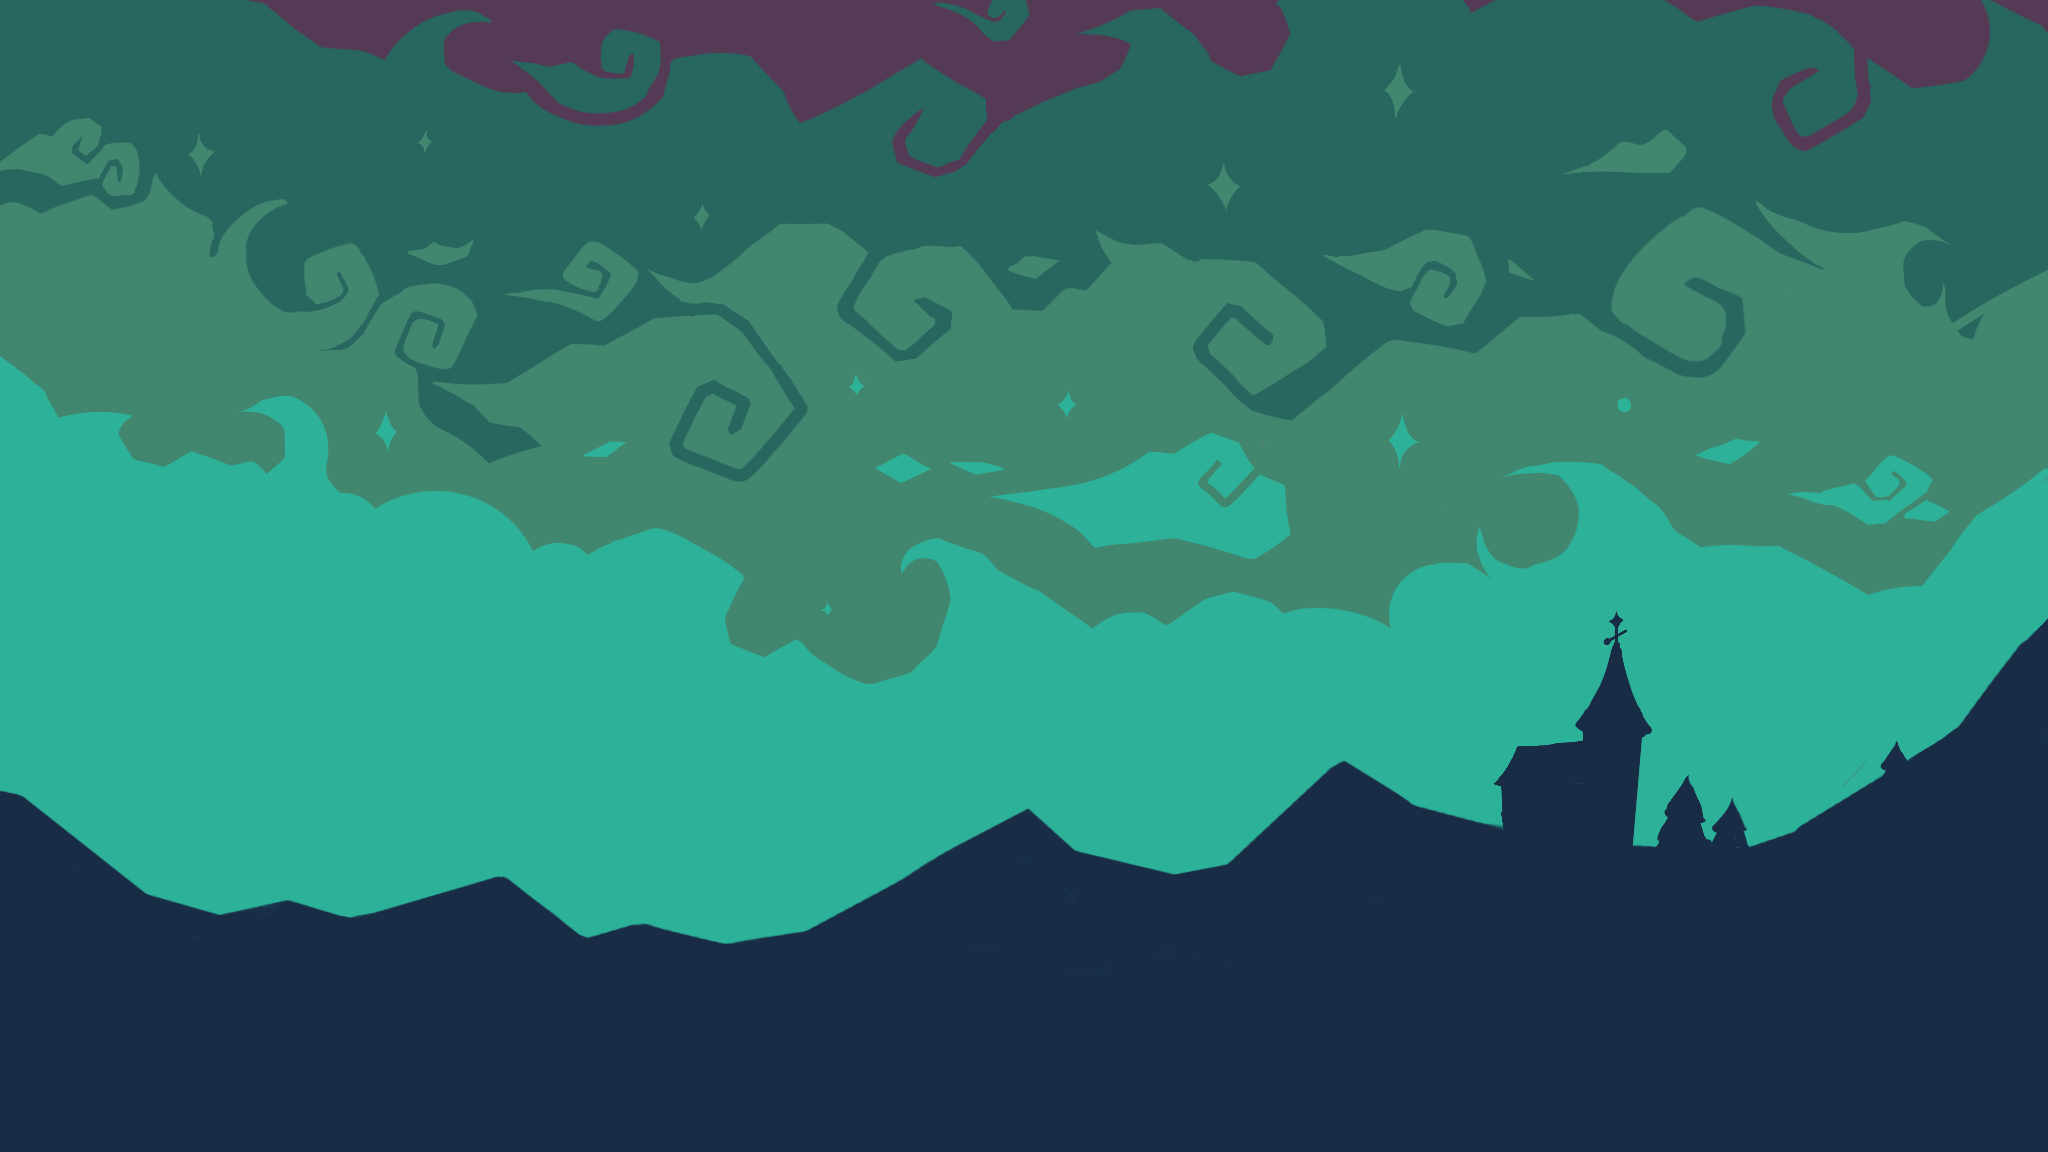
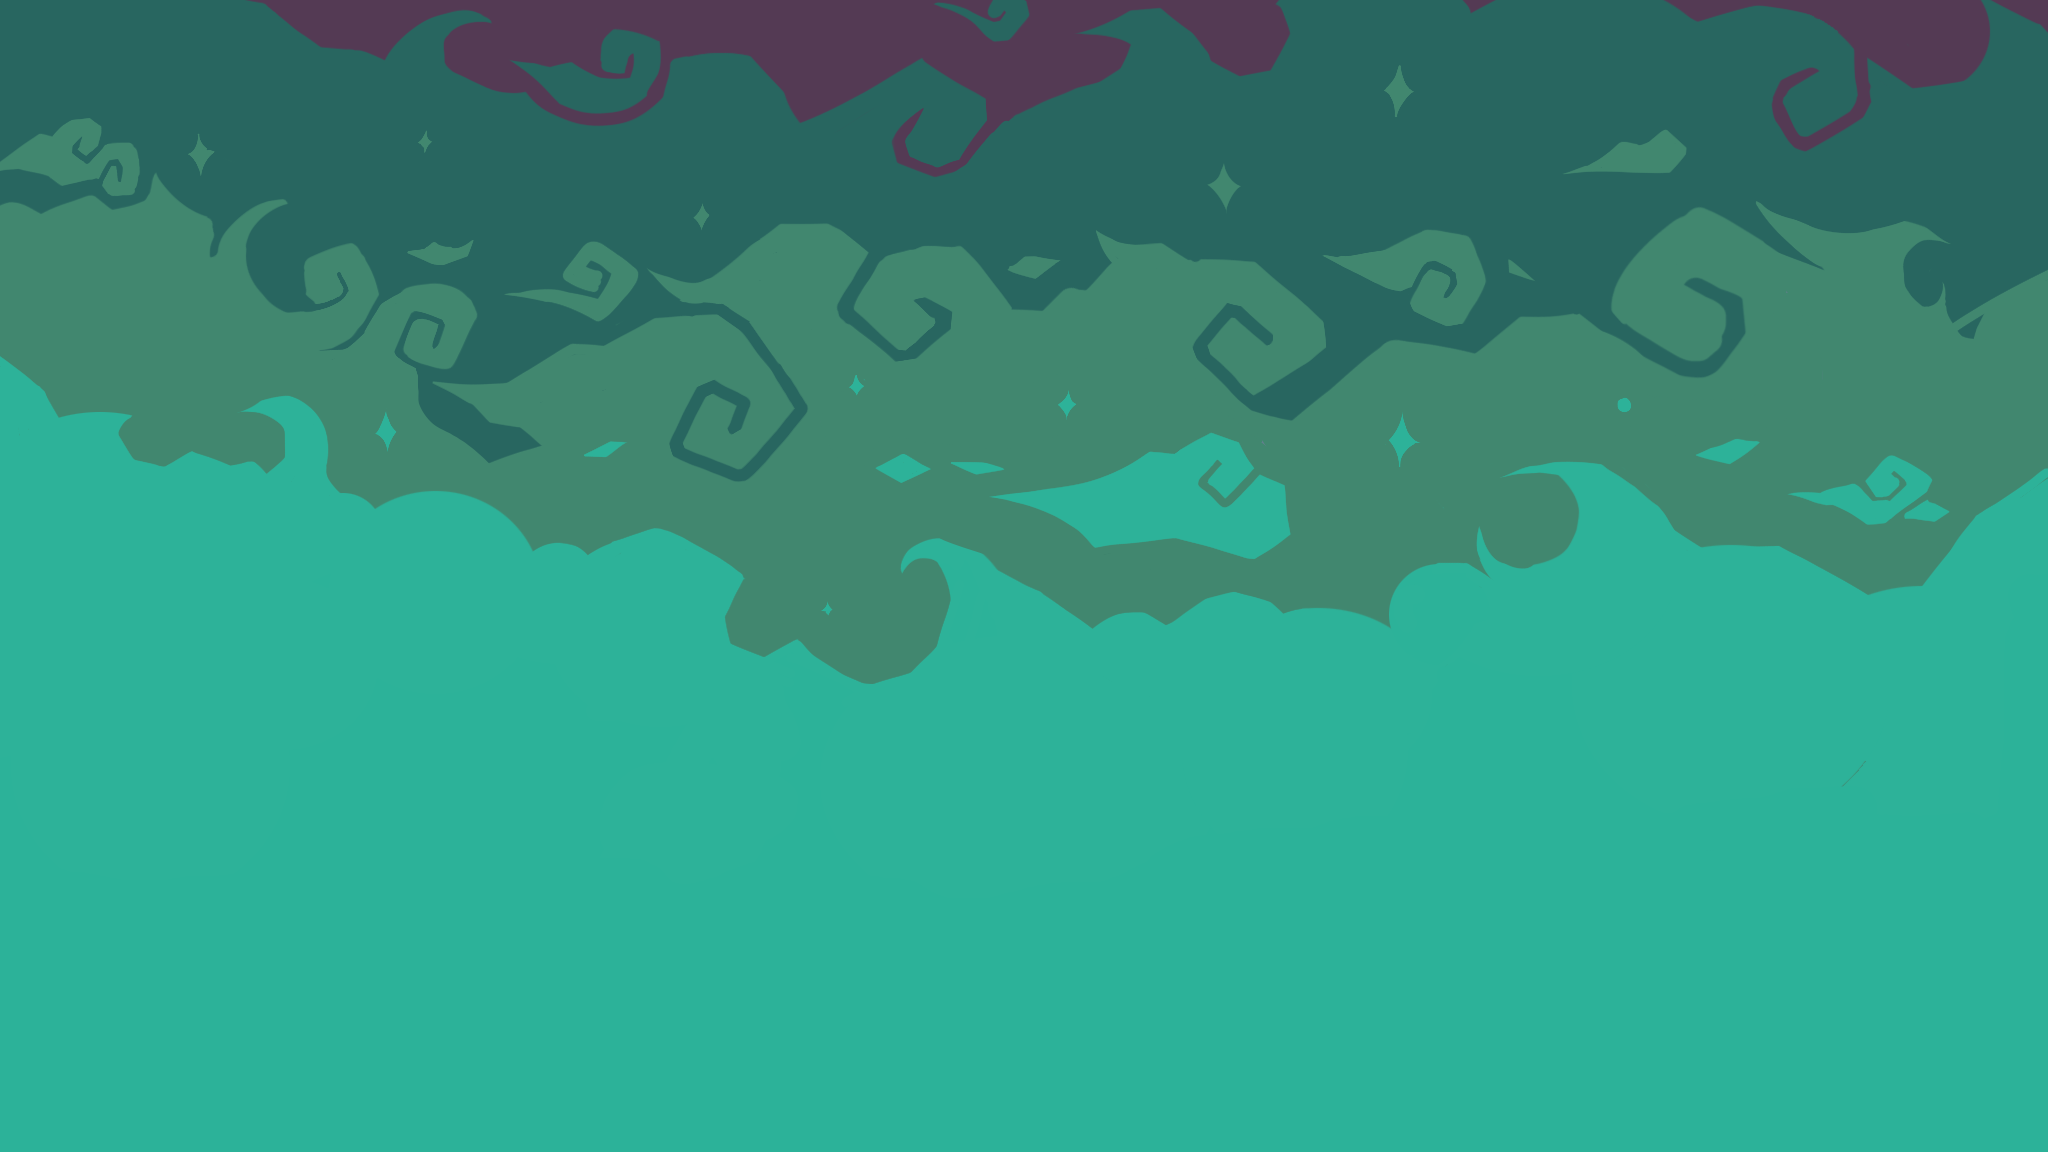
Added a super cool paralax effect

Changed region(s): [[0.0, 0.5312, 1.0, 1.0]]

diff --git a/index.css b/index.css
@@ -17,15 +17,6 @@
 */
 @import url('https://fonts.googleapis.com/css?family=Lato');
 /*General Styling*/
-* {
-  /*
-     I removed the resetting of margin and padding
-     Turns out that the weird white space was the 8px
-     margin of the body
-  */
-  /* This is still very useful */
-  box-sizing: border-box;
-}
 
 body {
   /* Fixing the weird white space */
@@ -60,7 +51,7 @@ ol, ul {
 }
 
 section, header, footer {
-  background-color: #182c46;
+  background-color: #00152d;
   color: #e5f5f6;
   font-family:  'Lato', Helvetica, sans-serif;
   height: 100vh;
@@ -74,7 +65,35 @@ header {
   background-image: url("images/background.png");
   background-repeat: repeat-x;
   background-size: cover;
-  padding: 10% 5%;
+
+  height: 1100px;
+  overflow: hidden;
+  position: relative;
+  z-index: -4;
+}
+
+.layer {
+  background-position: bottom center;
+  background-size: auto;
+  background-repeat: no-repeat;
+  width: 100%;
+  height: 1100px;
+  position: fixed;
+}
+
+#layer-foreground {
+  background-image: url("images/Foreground.png");
+  z-index: -1;
+}
+
+#layer-harper {
+  background-image: url("images/Harper.png");
+  z-index: -2;
+}
+
+#layer-mountain {
+  background-image: url("images/Mountain.png");
+  z-index: -3;
 }
 
 header p {

diff --git a/index.html b/index.html
@@ -16,7 +16,8 @@
 
 <head>
   <meta charset="utf-8">
-  <title>About Chao</title>
+  <title>Lunaria</title>
+  <script src="index.js"></script>
   <link href="index.css" rel="stylesheet">
 </head>
 
@@ -24,16 +25,12 @@
 
   <!--Header-->
   <header>
-    <h1>Hi! I'm Chao!</h1>
-    <p>
-      ...and this is my personal page!
-    </p>
-    <p>
-      I'm a sophomore at University of Washington. I love programming,
-      drawing, and eating great food! I'm looking forward to making beautiful
-      websites in CSE 154.
-    </p>
-    <a href="https://youtu.be/CpelFcu602A" id="moon" target="_blank"><img src="images/moon.png" alt="Moon"></a>
+    <!--<img src="images/LunariaLogo.png" alt="Lunaria"></img>-->
+    <div class="layer" id="layer-foreground" data-scroll="0.95"></div>
+    <div class="layer" id="layer-harper" data-scroll="0.6"></div>
+    <div class="layer" id="layer-mountain" data-scroll="0.8"></div>
+
+    <img src="images/moon.png" alt="Moon">
   </header>
 
   <!--Main-->

diff --git a/index.js b/index.js
@@ -1,0 +1,26 @@
+(function() {
+  "use strict";
+  window.addEventListener("load", initialize);
+  window.addEventListener("scroll", handleScroll);
+
+  function initialize() {
+
+  }
+
+  function handleScroll() {
+    let topDistance = window.scrollY;
+    let layers = qsa(".layer");
+    console.log(layers);
+    for(let i = 0; i < layers.length; i++) {
+      let scroll = layers[i].getAttribute("data-scroll");
+      let movement = -(topDistance * scroll);
+      let styleTranslate = "translate3d(0, " + movement + "px, 0)";
+      layers[i].style.transform = styleTranslate;
+    }
+  }
+
+  function qsa(query) {
+    return document.querySelectorAll(query);
+  }
+
+})();
